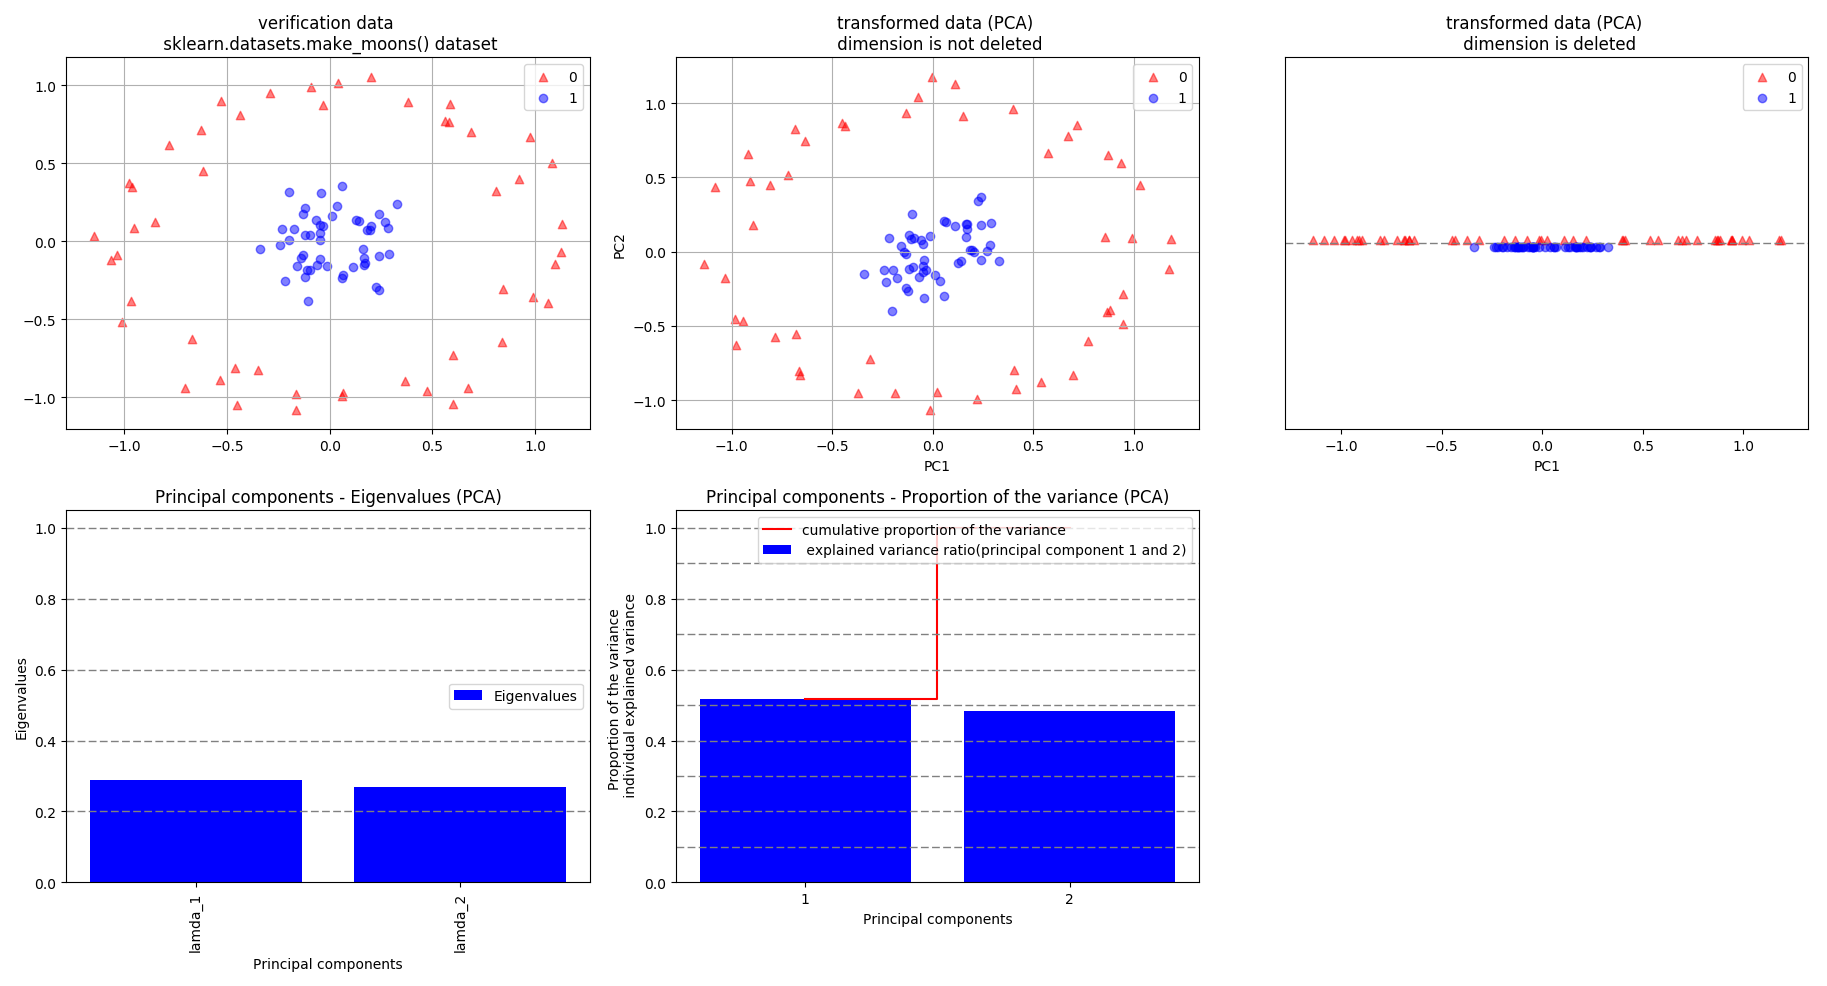
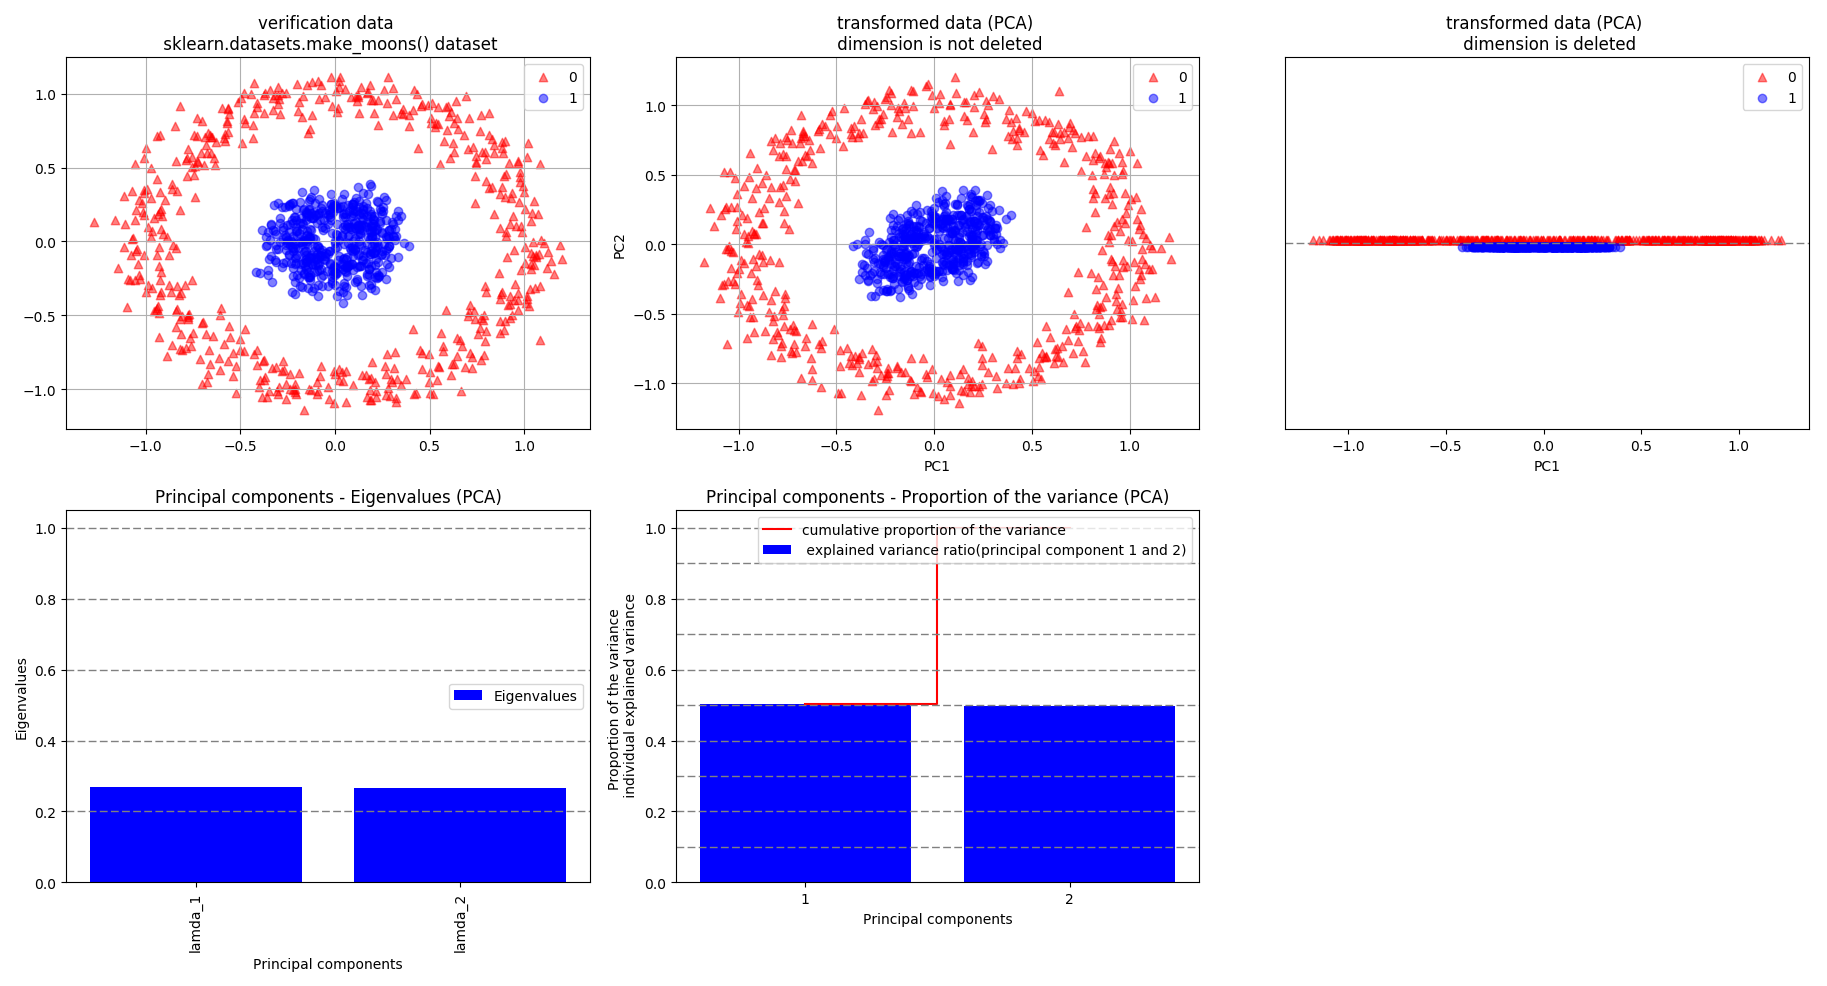
Add files via upload

diff --git a/kernelPCA_scikit-learn/main1.py b/kernelPCA_scikit-learn/main1.py
@@ -26,10 +26,11 @@ def main():
     #   read & set  data
     #----------------------------------------------------
     # 検証用サンプルデータセットの生成
-    dat_X, dat_y = DataPreProcess.DataPreProcess.generateMoonsDataSet()       # 半月状のデータセット
-    #dat_X, dat_y = DataPreProcess.DataPreProcess.generateCirclesDataSet()     # 同心円状のデータセット
+    #dat_X, dat_y = DataPreProcess.DataPreProcess.generateMoonsDataSet()       # 半月状のデータセット
+    dat_X, dat_y = DataPreProcess.DataPreProcess.generateCirclesDataSet()     # 同心円状のデータセット
 
-    
+    plot_numUp   = 500  #
+    plot_numDown = 500  #
     
     #========================================================================
     # Learning Process
@@ -53,12 +54,16 @@ def main():
     scikit_kpca1 = KernelPCA( 
         n_components = 2, 
         kernel = 'rbf',         # カーネル関数として, RBF カーネルを指定
-        gamma = 15 
+        gamma = 15,             # カーネル関数のパラメータ 
+        n_jobs = -1             # CPUの並列処理 (default=1)
+
     )
     scikit_kpca2 = KernelPCA( 
         n_components = None, 
         kernel = 'rbf',         # カーネル関数として, RBF カーネルを指定
-        gamma = 15 
+        gamma = 15,             # カーネル関数のパラメータ
+        remove_zero_eig = True, # カーネル行列の固有値 0 となるものを削除
+        n_jobs = -1             # CPUの並列処理 (default=1)
     )
 
     X_scikit_kpca1 = scikit_kpca1.fit_transform( dat_X )
@@ -67,7 +72,9 @@ def main():
     # scikit_kpca2 オブジェクトの内容確認
     print( "scikit_kpca2.get_params() : \n", scikit_kpca2.get_params() )
     print( "scikit_kpca2.coef0 : \n", scikit_kpca2.coef0 )
-
+    print( "scikit_kpca2.lambdas_ : \n", scikit_kpca2.lambdas_ )    # カーネル行列の固有値
+    print( "scikit_kpca2.lambdas_[0:40] : \n", scikit_kpca2.lambdas_[0:40] )    # カーネル行列の固有値
+    
     #====================================================
     #   汎化性能の評価
     #====================================================
@@ -147,7 +154,7 @@ def main():
     
     # サンプルデータの散布図を plot
     plt.scatter(
-        X_pca1[ dat_y == 0, 0 ], numpy.zeros( (50,1) ) + 0.02, 
+        X_pca1[ dat_y == 0, 0 ], numpy.zeros( (len(X_pca1)/2,1) ) + 0.02, 
         color = 'red', 
         marker = '^', 
         label = '0',
@@ -155,7 +162,7 @@ def main():
     )
 
     plt.scatter(
-        dat_X[ dat_y == 1, 0 ], numpy.zeros( (50,1) ) - 0.02, 
+        dat_X[ dat_y == 1, 0 ], numpy.zeros( (len(X_pca1)/2,1) ) - 0.02, 
         color = 'blue', 
         marker = 'o',
         label = '1',
@@ -264,7 +271,7 @@ def main():
     plt.clf()
     
     # plt.subplot(行数, 列数, 何番目のプロットか)
-    plt.subplot(2, 2, 1)
+    plt.subplot(2, 3, 1)
 
     plt.grid()
 
@@ -295,7 +302,7 @@ def main():
     # x_axis = PC1, y_axis = PC2 (２次元→２次元で次元削除を行わない)
 
     # plt.subplot(行数, 列数, 何番目のプロットか)
-    plt.subplot(2, 2, 3)
+    plt.subplot(2, 3, 2)
     plt.grid()
 
     # サンプルデータの散布図を plot
@@ -325,11 +332,11 @@ def main():
     # x_axis = PC1 (２次元→１次元で次元削除)
 
     # plt.subplot(行数, 列数, 何番目のプロットか)
-    plt.subplot(2, 2, 4)
+    plt.subplot(2, 3, 3)
     
     # サンプルデータの散布図を plot
     plt.scatter(
-        X_scikit_kpca1[ dat_y == 0, 0 ], numpy.zeros( (50,1) ) + 0.02, 
+        X_scikit_kpca1[ dat_y == 0, 0 ], numpy.zeros( (len(X_scikit_kpca1)/2,1) ) + 0.02, 
         color = 'red', 
         marker = '^', 
         label = '0',
@@ -337,7 +344,7 @@ def main():
     )
 
     plt.scatter(
-        X_scikit_kpca1[ dat_y == 1, 0 ], numpy.zeros( (50,1) ) - 0.02, 
+        X_scikit_kpca1[ dat_y == 1, 0 ], numpy.zeros( (len(X_scikit_kpca1)/2,1) ) - 0.02, 
         color = 'blue', 
         marker = 'o',
         label = '1',
@@ -352,6 +359,32 @@ def main():
     plt.legend( loc = 'best' )
     #plt.tight_layout()
     
+    #--------------------------
+    # 固有値の図
+    #--------------------------
+    #plt.clf()
+    # plt.subplot(行数, 列数, 何番目のプロットか)
+    plt.subplot(2, 3, 4)
+    
+    # 棒グラフ（固有値の値が上位のものを表示 ）
+    plt.bar(
+        range( 1, 41 ), scikit_kpca2.lambdas_[0:40],
+        alpha = 1.0, 
+        align = 'center',
+        color = "blue"
+    )
+    
+    plt.xticks( 
+        range( 1, len(scikit_kpca2.lambdas_[0:40]) ), 
+        rotation = 90
+    )
+
+    plt.title("Eigenvalues (RBF-kernelPCA)")
+    plt.xlabel('index of Eigenvalues')
+    plt.ylabel('Eigenvalues')
+    plt.legend( loc = 'best' )
+    plt.tight_layout()
+
     plt.savefig("./kernelPCA_scikit-learn_2.png", dpi = 300, bbox_inches = 'tight' )
     plt.show()
 

diff --git a/kernelPCA_scikit-learn/README.md b/kernelPCA_scikit-learn/README.md
@@ -24,16 +24,18 @@
 ![kernelpca_scikit-learn_2](https://user-images.githubusercontent.com/25688193/29363414-e47126c0-82ca-11e7-8931-10472ac76627.png)
 
 
-`sklearn.datasets.make_circles( n_samples = 100 )` で生成した同心円状のデータ（サンプル数：１００個）に対し、通常の PCA を適用した結果。
+`sklearn.datasets.make_circles( n_samples = 1000 )` で生成した同心円状のデータ（サンプル数：１０００個）に対し、通常の PCA を適用した結果。
 
 上段の図より、通常の PCA では、うまく線形分離可能なテータに変換できていないことが分かる。（※下段の図は、各主成分に対する固有値と寄与率、累積率寄与率の図）尚、第１主成分 PC1 のみに次元削除（特徴抽出）した図は、各クラス（0 or 1）の識別を見やすくするため、上下に少し移動させている。
 
-![kernelpca_scikit-learn_4](https://user-images.githubusercontent.com/25688193/29364373-2bd5c180-82ce-11e7-8cba-47a01534e654.png)
+![kernelpca_scikit-learn_4](https://user-images.githubusercontent.com/25688193/29364831-bc25d8dc-82cf-11e7-84b2-9842d5e96a1c.png)
 
-`sklearn.datasets.make_circles( n_samples = 100 )` で生成した同心円状のデータ（サンプル数：１００個）に対し、RBF カーネルをカーネル関数とする、カーネル PCA を適用した結果。
+
+`sklearn.datasets.make_circles( n_samples = 1000 )` で生成した同心円状のデータ（サンプル数：１０００個）に対し、RBF カーネルをカーネル関数とする、カーネル PCA を適用した結果。
 上段の図より、RBFカーネルをカーネルとするkernelPCA では、この半月状のデータをうまく線形分離可能な特徴空間に写像出来ていることが分かる。（尚、第１主成分 PC1 のみに次元削除（特徴抽出）した図は、各クラス（0 or 1）の識別を見やすくするため、上下に少し移動させている。）
 
-![kernelpca_scikit-learn_5](https://user-images.githubusercontent.com/25688193/29364374-2bfbac2e-82ce-11e7-830e-c173589faf60.png)
+![kernelpca_scikit-learn_5](https://user-images.githubusercontent.com/25688193/29364832-bc48a862-82cf-11e7-9e59-25991406e03c.png)
+
 
 ## Theory
 
